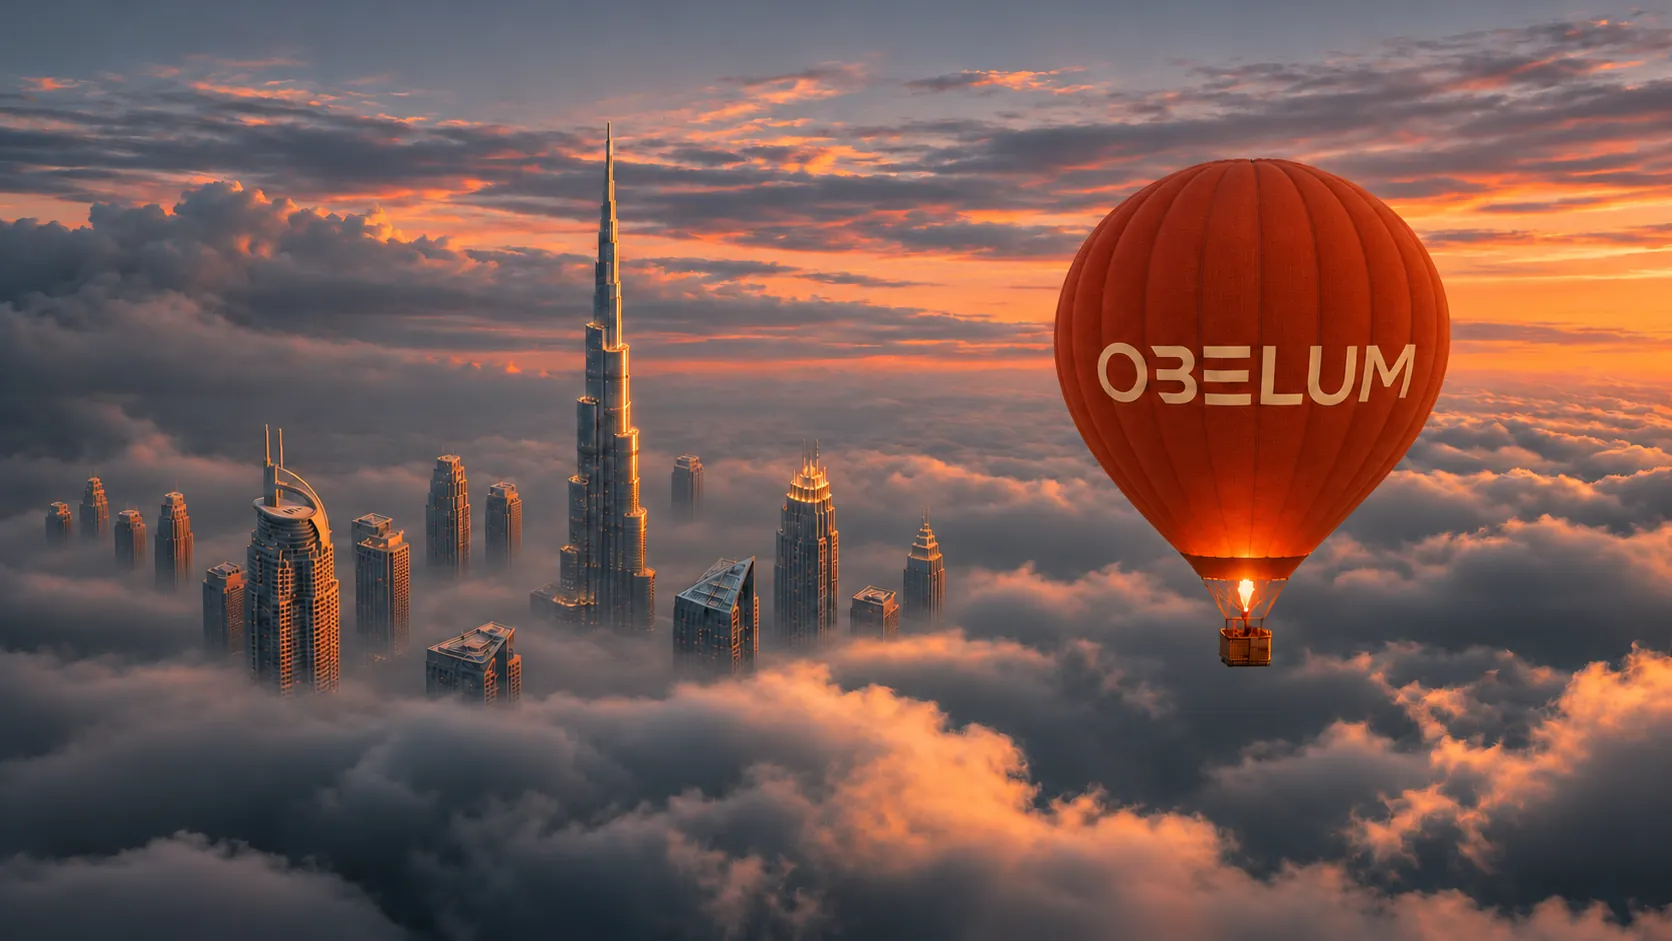
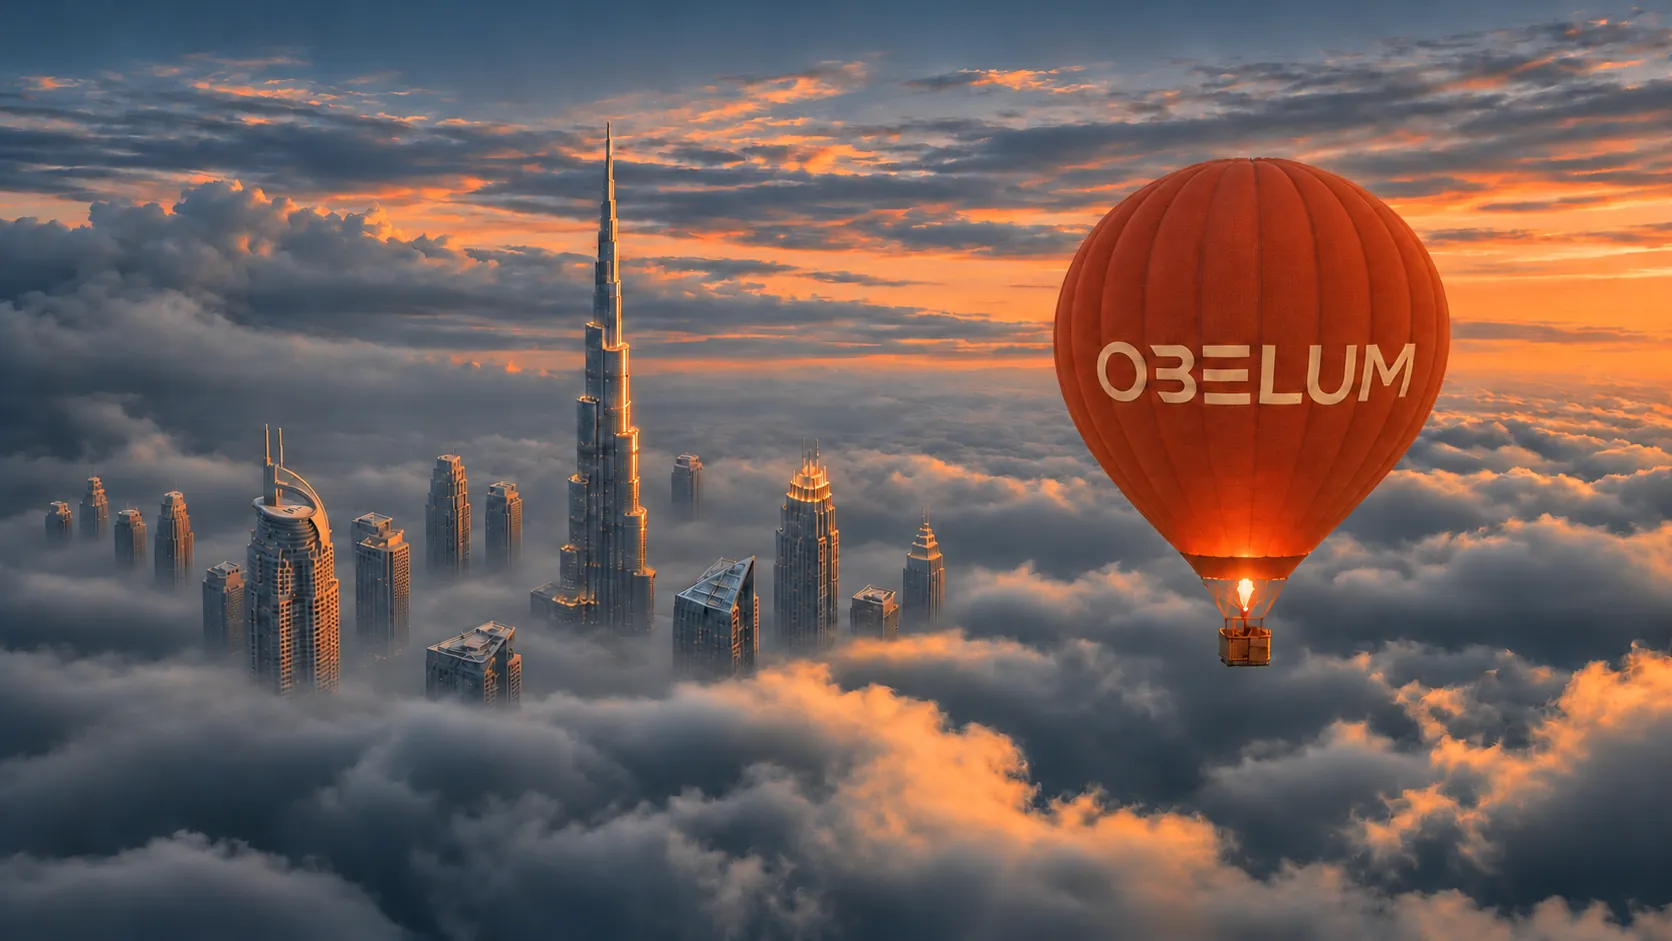
Login: updated balloon photo, cache-busted
Claude-Session: https://claude.ai/code/session_01UcwUMtUjUZowF7MfKbm9bV

diff --git a/login.html b/login.html
@@ -117,7 +117,7 @@
 
   <section class="login__promo" aria-label="Obelum Agent&rsquo;s Workstation">
     <div class="login__bg" aria-hidden="true">
-      <img src="assets/img/login-balloon-skyline.webp?v=4" alt="" width="1672" height="941">
+      <img src="assets/img/login-balloon-skyline.webp?v=5" alt="" width="1672" height="941">
     </div>
     <div class="login__promo-inner">
       <span class="eyebrow login__eyebrow">Agent&rsquo;s Workstation</span>

diff --git a/sw.js b/sw.js
@@ -4,7 +4,7 @@
    two after each deploy, which has already broken this site twice. Everything
    is network-first; the cache exists solely so an offline visit still renders.
    Bump CACHE to retire old stores. */
-const CACHE = 'obelum-v347';
+const CACHE = 'obelum-v348';
 
 self.addEventListener('install', (e) => {
   // Take over immediately rather than waiting for every old tab to close.
